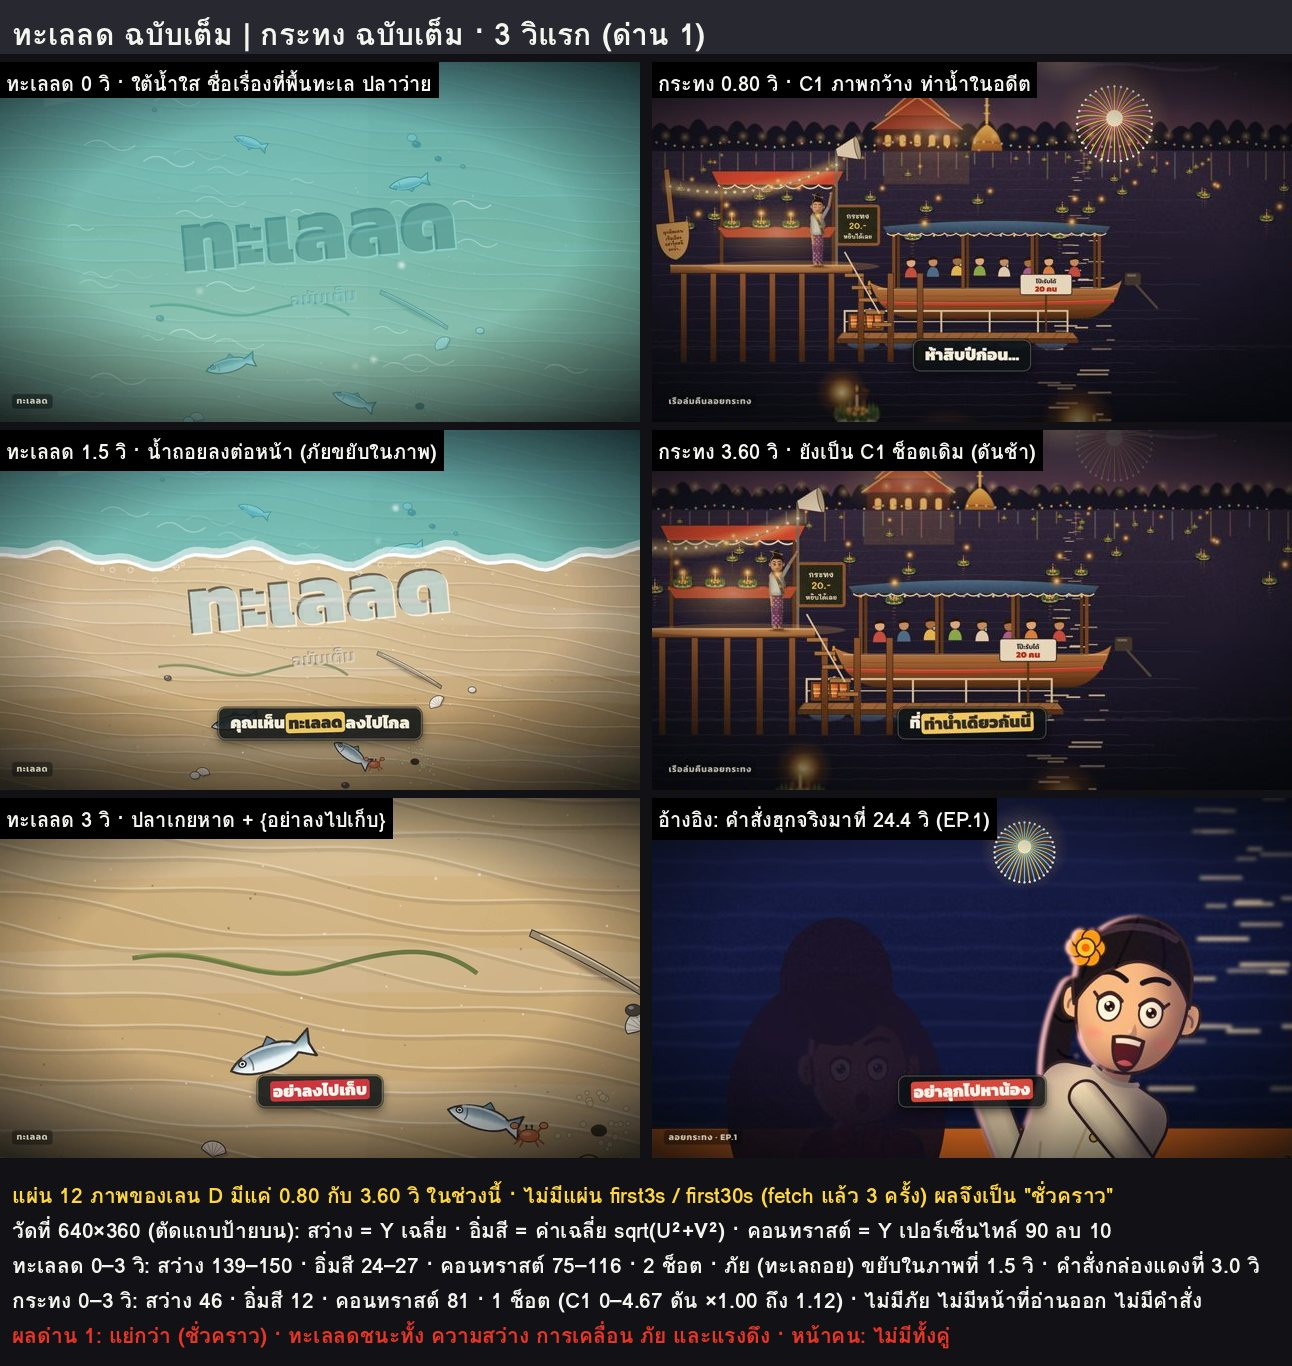
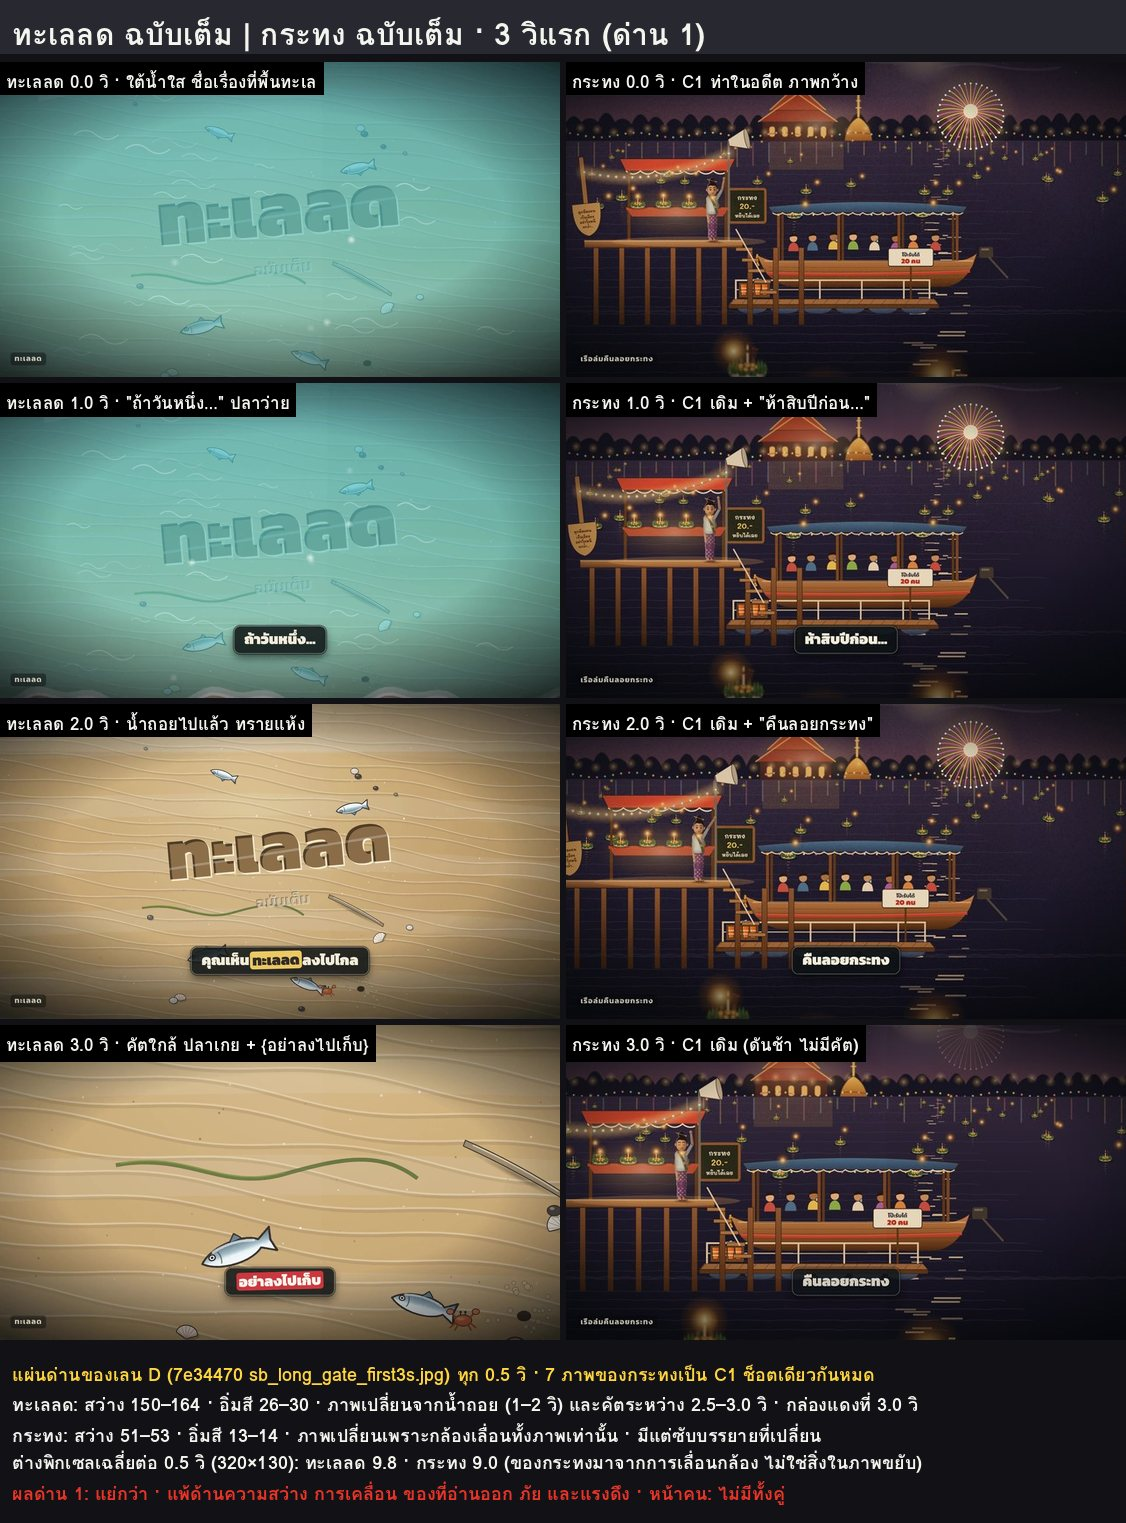
Review krathong long stills part 1: gate 1 graded on the 7e34470 gate sheet — แย่กว่า (one slow push-in, Y 51 vs 150, no motion inside the frame); six conditions for เท่า (3 cuts of 0.8–1.2 s, moving threat 0–1 s, 270 px face 1–2 s, wide while it happens 2–3 s, red box before 3 s, mean brightness ab
Claude-Session: https://claude.ai/code/session_01UrmfYm4mSaaTB25kG8juWV

diff --git a/video/release/reviews/2026-11-06-krathong-long-storyboard-p1.md b/video/release/reviews/2026-11-06-krathong-long-storyboard-p1.md
@@ -3,7 +3,8 @@
 - **งานที่ตรวจ:** `prod/lane-d`
   - แผ่นภาพ: `sb_long_1_cold_title.jpg` @ `17a93dc` (12 ภาพ) · `sb_long_1_ep1.jpg` @ `9d6cef6` (48 ภาพ, 17a93dc ไม่ได้ทำใหม่) · ช่องละ 640×360
   - โค้ด: อ่านที่ `17a93dc` และ commit ใหม่ที่ขึ้นระหว่างตรวจ: `97de3ab` (แก้ B1) · `0bc8ad7` (โค้ดส่วน 2–4) · `8d3e656` / `33f2e34` (แผ่นส่วน 2 และ 3 · ไม่แตะโค้ดหรือแผ่นของส่วนที่ 1)
-  - fetch ด้วยคำสั่งที่กำหนด 4 ครั้ง (ราว 15:20–16:00 UTC) **ไม่มี** `sb_long_gate_first3s.jpg` และ `sb_long_gate_first30s.jpg` จึงให้คะแนนด่าน 1 จากแผ่น 12 ภาพ และเป็นผล **ชั่วคราว**
+  - แผ่นด่าน `sb_long_gate_first3s.jpg` (ทุก 0.5 วิ) และ `sb_long_gate_first30s.jpg` (ทุก 2.5 วิ) มาที่ `7e34470` หลังส่งผลรอบแรก · ด่าน 1 ให้คะแนนจากแผ่นนี้แล้ว (ไม่ใช่ชั่วคราวแล้ว)
+  - ส่วน EP.1 ของแผ่น first30s ทำก่อนแก้ B2 และข้อเล็ก ตามที่ผู้ประสานงานแจ้ง · ไม่ได้ตรวจแผ่นส่วน 2–4 (มีรีวิวแยก)
 - **ส่วนที่ 1:** 0–207.711 วิ = cold open 0–18.75 · ไตเติล 18.75–21.75 · EP.1 เต็ม 21.75–207.711
   - "วิ" ในรายงานคือเวลาในคลิปยาว · เวลาใน EP.1 = เวลาในคลิปยาว − 21.75
 - **กฎ:** `video/release/CINEMA-BIBLE.md` §1–7 รวม "ข้อ 7 ฉบับยาว: วิธีใช้" · `video/release/TEAM-CHARTER.md` §4 · skill V3 (≤ 3 คน เท้าแตะพื้น ของอยู่ในมือ)
@@ -18,7 +19,7 @@
 ## คำตัดสิน: ยังไม่ผ่านส่วนที่ 1 · ห้ามเรนเดอร์
 
 โครงข้อ 7 ของส่วนที่ 1 ถูกแล้ว: cold open 18.75 วิ อยู่ก่อนไตเติล เล่าที่มาของกฎ ไตเติล 3 วิ ฮุก {อย่าลุกไปหาน้อง} ขึ้นที่ 24.41 วิ มีช็อตกว้างมาก est ในองก์ 1 ไม่มีป้าย F3 การ์ด HG7 การ์ดตัวเลือก หรือการ์ดท้ายในโค้ด และ `longplan_check` ได้ FAIL 0 แต่ยังเรนเดอร์ไม่ได้ เพราะ:
-1. ด่าน 1 (3 วิแรก) ได้ **แย่กว่า (ชั่วคราว)** และเรือล่มใน cold open ยังเป็นกล้องเอียงแบบ B2
+1. ด่าน 1 (3 วิแรก) ได้ **แย่กว่า** (จากแผ่นด่าน `7e34470`) และเรือล่มใน cold open ยังเป็นกล้องเอียงแบบ B2
 2. ฉากอดีตไม่เป็นซีเปีย และมีของของปัจจุบัน รวมป้ายไม้พายกฎ 3 ข้อที่ฉากความลับของเลน D เองบอกว่า "แต่งคืนนั้น"
 3. การแปลงเป็น 16:9 ยังมีหน้าโดนทับหรือโดนตัด: พลุทับหน้าคนพูด ซับทับคาง หัวคนพูดโดนขอบ หน้าผู้โดยสารทะลุเงาดำในภาพคำสั่งฮุก
 4. ภาพกว้างที่ท่าในองก์ 1 มีคนเดินกลางอากาศ หน้า 4–5 คน และช็อต 15–17 วิที่ไม่มีคัต · การ์ด coin มีแถบดำ
@@ -28,22 +29,29 @@
 
 ---
 
-## ด่าน 1 · 3 วิแรก: **แย่กว่า (ชั่วคราว)** · `ev/gate1_first3s.jpg`
+## ด่าน 1 · 3 วิแรก: **แย่กว่า** · `ev/gate1_first3s.jpg`
 
-วัดที่ 640×360 ตัดแถบป้ายด้านบน: สว่าง = Y เฉลี่ย · อิ่มสี = ค่าเฉลี่ย sqrt(U²+V²) · คอนทราสต์ = Y เปอร์เซ็นไทล์ 90 ลบ 10
+ให้คะแนนจากแผ่นด่าน `7e34470:video/krathong-long/storyboard/sb_long_gate_first3s.jpg` (0–3 วิ ทุก 0.5 วิ ช่องละ 640×360) เทียบเฟรมทะเลลด ฉบับเต็ม ที่เวลาเดียวกัน · วัดที่ 640×360 ตัดแถบป้ายบนและแถบซับล่าง: สว่าง = Y เฉลี่ย · อิ่มสี = ค่าเฉลี่ย sqrt(U²+V²) · ภาพเปลี่ยน = ต่างพิกเซลเฉลี่ยต่อ 0.5 วิ ที่ 320×130
 
 | | ทะเลลด ฉบับเต็ม 0–3 วิ | กระทง ฉบับเต็ม 0–3 วิ | ใครชนะ |
 |---|---|---|---|
-| ภาพ | ใต้น้ำใส ชื่อ "ทะเลลด" ตัวใหญ่ที่พื้นทะเล ปลาว่าย → 1.5 วิ น้ำถอยลงต่อหน้า → 3.0 วิ ปลาเกยหาด | C1 ช็อตเดียว 0–4.67 วิ ท่าน้ำในอดีตทั้งท่า หยิบสาวโบกมือบนท่า เรือหัวกลมจอด พลุ 1 ลูกที่ 1.2 วิ | |
-| ความสว่าง | Y 139–150 · อิ่มสี 24–27 · คอนทราสต์ 75–116 | Y 46 · อิ่มสี 12 · คอนทราสต์ 81 | ทะเลลด |
-| การเคลื่อน | 2 ช็อต · น้ำถอยทั้งจอ | 1 ช็อต ดันช้า ×1.00 ถึง 1.12 ใน 4.67 วิ | ทะเลลด |
+| ภาพ | ใต้น้ำใส ชื่อ "ทะเลลด" ตัวใหญ่ที่พื้นทะเล ปลาว่าย → 1.5 วิ น้ำถอยลงต่อหน้า → 3.0 วิ คัตใกล้ ปลาเกยหาด | 7 ภาพเป็น C1 ช็อตเดียวกัน (0–4.67 วิ) ท่าน้ำในอดีตทั้งท่า หยิบสาวโบกมือบนท่า เรือหัวกลมจอด · ต่างกันแค่ซับ (ไม่มี → "ห้าสิบปีก่อน…" 0.5–1.5 → "คืนลอยกระทง" 2.0–3.0) | |
+| ความสว่าง | Y 150–164 · อิ่มสี 26–30 | Y 51–53 · อิ่มสี 13–14 (คอนทราสต์ 82–85 สูงกว่าทะเลลด แต่บนพื้นมืด) | ทะเลลด |
+| การเคลื่อน | 2 ช็อต · น้ำถอยทั้งจอ (ภาพเปลี่ยน 17.5–18.6 ช่วง 1–2 วิ) · คัตระหว่าง 2.5–3.0 วิ | 1 ช็อต ดันช้า ×1.00 ถึง 1.12 · ภาพเปลี่ยนเฉลี่ย 9.0 (ทะเลลด 9.8) แต่มาจากกล้องเลื่อนทั้งภาพ ไม่มีอะไรในภาพขยับ | ทะเลลด |
 | ของที่อ่านออก | ชื่อเรื่อง + ปลา | ท่าทั้งท่า คนสูงราว 1/5 จอ | ทะเลลด |
 | ภัยหรือหน้า | ภัยเห็นในภาพ (ทะเลถอย) · ไม่มีหน้า | ไม่มีภัย · หน้าหยิบเล็กมาก | ทะเลลด |
 | แรงดึง | "ถ้าวันหนึ่ง… คุณเห็นทะเลลดลงไปไกล" + กล่องแดง {อย่าลงไปเก็บ} ที่ 3.0 วิ | "ห้าสิบปีก่อน… คืนลอยกระทง" ปริศนาแบบหนัง ไม่มีคำสั่ง | ทะเลลด |
 
-- **ผล: แย่กว่า** (ไม่ใช่เล็กน้อย เพราะแพ้ทุกด้าน) · เรื่องใหม่ต้องได้เท่าหรือดีกว่า
-- **ชั่วคราว:** แผ่น 12 ภาพมีแค่ 0.80 กับ 3.60 วิ ในช่วงนี้ ทั้งสองเป็น C1 และยืนยันจากโค้ด (`cold/production/body.part:10` กล้อง 2 key แบบ glide ต่อเนื่องตลอด C1) ว่าไม่มีคัตก่อน 4.67 วิ
-- **ฮุก EP.1 ใน 30 วิแรก: ผ่าน** · "อย่า" ที่ 24.409 วิ (hook 2.359 + n02 0.30 + 21.75) ตรง `longplan.json hook_t` · ภาพ 24.73 วิ เห็นกล่องแดง
+- **ผล: แย่กว่า** (ไม่ใช่เล็กน้อย เพราะแพ้ทุกด้าน) · เรื่องใหม่ต้องได้เท่าหรือดีกว่า · ตรงกับที่เลน D ประเมินเอง (ช็อตเดียว ดันช้า ไม่มีคัต มีแต่ซับเปลี่ยน)
+- **สิ่งที่จะทำให้ได้ "เท่า"** (เลน D กำลังสลับเป็น ภาพแทรกภัย 0–1 วิ → หน้า 1–2 วิ → ภาพกว้าง 2–3 วิ ซึ่งถูกทาง) ต้องครบทุกข้อในแผ่นใหม่:
+  1. 3 คัตใน 3 วิ คัตละ 0.8–1.2 วิ ตัดทันที ไม่มีภาพดันช้า (คู่มือข้อ 1 ฮุก)
+  2. 0–1 วิ ภัยที่ **ขยับในภาพ** และอ่านออกใน 0.5 วิ เช่น ภาพใกล้กราบเรือที่ขีดน้ำจมลง น้ำกระฉอกข้ามกราบตอนคนลุก (ไม่ใช่เรือจอดนิ่ง)
+  3. 1–2 วิ หน้าเห็นชัด อย่างน้อยราว 1/7 ของความกว้างจอ (ราว 270 px บน 1920) ตาเบิก เช่น คนขับเรือตะโกน "ถึงท่าแล้ว! {ลุกได้เลย}!" หรือหยิบสาวตาเบิก
+  4. 2–3 วิ ภาพกว้างที่ **เหตุการณ์เกิดอยู่** (ทุกคนลุกพร้อมกัน ตัวเรือเริ่มพลิกเทียบผิวน้ำ) ไม่ใช่ภาพท่าสงบของ C1 เดิม
+  5. กล่องแดงก่อน 3 วิ: ใช้ "{ลุกได้เลย}!" ของ c02 (คำสั่งผิดที่เป็นต้นเหตุ) ทำหน้าที่แทนคำสั่ง {อย่าลงไปเก็บ} ของทะเลลด · "ห้าสิบปีก่อน…" ย้ายไปหลัง 3 วิ
+  6. สว่างเฉลี่ยราว 75 ขึ้นไป (ระดับฮุก Short EP.1 ที่ได้ "เท่า" กับทะเลลด EP.2 ที่ Y 74) ด้วยซีเปียที่ยกแสง (ต้องแก้ 2) และแสงไฟจากแผงหรือตะเกียงบนหน้า
+  - ถ้าได้ 1–5 แต่ยังมืดกว่านั้น จะได้ "แย่กว่า (เล็กน้อย)" ซึ่งยังไม่ผ่าน
+- **ฮุก EP.1 ใน 30 วิแรก: ผ่าน** · "อย่า" ที่ 24.409 วิ (hook 2.359 + n02 0.30 + 21.75) ตรง `longplan.json hook_t` · แผ่น first30s ที่ 25.0 วิ เห็นกล่องแดง (หน้า pxB ทะลุเงาดำทางซ้ายยังอยู่ ต้องแก้ 4)
 - ทางแก้อยู่ใน **ต้องแก้ 1**
 
 ---
@@ -90,7 +98,7 @@
     - หมุนตัวเรือเทียบผิวน้ำหลายสิบองศา ไม่ใช่หมุนกล้อง
     - น้ำข้ามกราบจนกินจอเกินครึ่ง หัวกลมหล่นน้ำ มีหน้าอย่างน้อย 1 หน้า (คนขับเรือหรือหยิบ)
   - C4 ใส่ `hull:` ของ `waterLevel` ให้เห็นท้องเรือคว่ำด้านหลัง (ตัวเลือกมีแล้วใน `tools/longcast.part` ฉากความลับ 'then' ใช้อยู่) และให้แขนเด็กพาดบนถัง ถังจมครึ่ง น้ำถึงอก
-  - ทำแผ่นด่าน `first3s` (ทุก 0.5 วิ) กับ `first30s` (ทุก 2.5 วิ) ใหม่ แล้วให้ผู้ตรวจให้คะแนนด่าน 1 อีกครั้ง
+  - ทำแผ่นด่าน `first3s` (ทุก 0.5 วิ) กับ `first30s` (ทุก 2.5 วิ) ใหม่หลังสลับ แล้วให้ผู้ตรวจให้คะแนนด่าน 1 อีกครั้ง ตามเกณฑ์ "เท่า" 6 ข้อในหัวข้อด่าน 1
 - **ใช้กับทุกส่วน:** แผ่นส่วน 3 ที่เพิ่งมา (`33f2e34`) ช็อต gone 84.14 วิ (เวลาใน EP.3) เด็กยืนท่า T อยู่บนถังแบบเดียวกัน · ท่าเกาะถังต้องแก้ที่ตัวท่าและตำแหน่งถัง ใช้ทั้ง cold และฉากความลับ
 - **ใช้กับทุกส่วน:** ภาพที่ต้องบอกว่าเรือเอียงหรือล่ม ให้ตัวเรือเอียงเทียบผิวน้ำ ไม่ใช่ `lean` หมุนทั้งช็อต
   - แบบที่ถูกมีแล้วในโค้ดส่วน 2: ฉากเชื่อม A1 (`ep2/production/body.part:13, 21`) หมุนเรือรอบเส้นน้ำ 0 ถึง 22° โดยวาดน้ำแยก · ใช้วิธีนี้กับ C3 และ roll ของ EP.1
@@ -178,6 +186,7 @@
 
 ### 7 · แผ่น EP.1 ไม่ตรงโค้ด และรูปแบบ B1 ที่เกิดซ้ำ · ใช้กับทุกส่วน · `ev/06`
 - **แผ่นค้าง:** `sb_long_1_ep1.jpg` (9d6cef6) มี badge "ลอยกระทง · EP.1" ทั้ง 48 ภาพ แต่ `ep1/production/foot.part:1` เขียน "เรือล่มคืนลอยกระทง"
+  - แผ่นด่าน first30s (`7e34470`) ที่ 22.5 และ 25.0 วิ เป็น "เรือล่มคืนลอยกระทง" แล้ว จึงยืนยันได้ว่า build ปัจจุบันถูก เหลือแค่แผ่น EP.1 ที่ค้าง
   - `17a93dc` ทำใหม่แค่แผ่น cold/ไตเติล · `97de3ab` แก้ B1 หลังทำแผ่น
   - แผ่นนี้จึงไม่ใช่ภาพที่จะเรนเดอร์ และยืนยันการตัด Shorts-isms จากภาพไม่ได้
 - **B1 ในฉบับยาว:**
@@ -189,7 +198,7 @@
 - **แก้:**
   - ลบหรือแก้ไฟล์ bridges ชุดเก่า
   - รัน edgecheck ตัวใหม่ (`c9e4240` จับ id ซ้ำ) ทุกส่วน แนบผล
-  - ทำแผ่นทุกส่วนจาก build ที่จะเรนเดอร์จริง พร้อมแผ่นด่าน first3s / first30s
+  - ทำแผ่นทุกส่วนจาก build ที่จะเรนเดอร์จริง
   - ช่องละ ≥ 640×360 (แผ่นส่วน 2 และ 3 ที่เพิ่งมาเป็นช่องละ 400×225)
 
 ---
@@ -293,7 +302,7 @@
 ## ไฟล์หลักฐาน (`video/release/reviews/krathong-long-storyboard-p1-evidence/`)
 | ไฟล์ | ใช้กับ |
 |---|---|
-| `gate1_first3s.jpg` | ด่าน 1: ทะเลลด ฉบับเต็ม \| กระทง ฉบับเต็ม 3 วิแรก พร้อมตัวเลข |
+| `gate1_first3s.jpg` | ด่าน 1: ทะเลลด ฉบับเต็ม \| กระทง ฉบับเต็ม 0 / 1 / 2 / 3 วิ จากแผ่นด่าน `7e34470` พร้อมตัวเลข |
 | `01-past-sepia-and-props.jpg` | ต้องแก้ 2: อดีตกับปัจจุบันที่ท่าเดียวกัน · ป้ายไม้พาย กระดาน มือถือ ขีดแดง ตัวนับ |
 | `02-capsize-and-drum.jpg` | ต้องแก้ 1: C3 roll · เด็กกับถัง · B2 ใน EP.1 |
 | `03-faces-fx-captions-edges.jpg` | ต้องแก้ 3–4: พลุทับหน้า 2 จุด · ซับทับคาง · หัวลุงโดนขอบ · หน้าผีในภาพฮุก |
@@ -303,7 +312,7 @@
 | `07-should-fix.jpg` | ควรแก้ 2, 4–6 |
 
 ## ตรวจซ้ำรอบหน้า (ขั้นต่ำ)
-1. แผ่นด่าน `first3s` / `first30s` และแผ่น EP.1 ใหม่จาก build ปัจจุบัน (badge ต้องเป็น "เรือล่มคืนลอยกระทง")
+1. แผ่นด่าน `first3s` / `first30s` ใหม่หลังสลับ cold open (ให้คะแนนตามเกณฑ์ "เท่า" 6 ข้อ) และแผ่น EP.1 ใหม่จาก build ปัจจุบัน
 2. cold open: 3 คัตใน 3 วิ มีภัยและหน้า · เรือพลิกเทียบน้ำ · เด็กพาดแขนบนถัง เห็นเรือคว่ำ · วัด hue/อิ่มสีของอดีต · ไม่มีป้ายไม้พาย มือถือ ขีดแดง ตัวนับ ป้ายโป๊ะ
 3. เฟรมราว 158.0 / 161.7 / 167.6 / 194.3 / 24.7 / 29.3 / 37.2 / 108.5 วิ ของรอบใหม่
 4. ผล edgecheck ตัวใหม่และ headcut ทุกส่วน · ผล `shotlist_check.py --long` ของ cold (`--part scene`) และ EP.1
